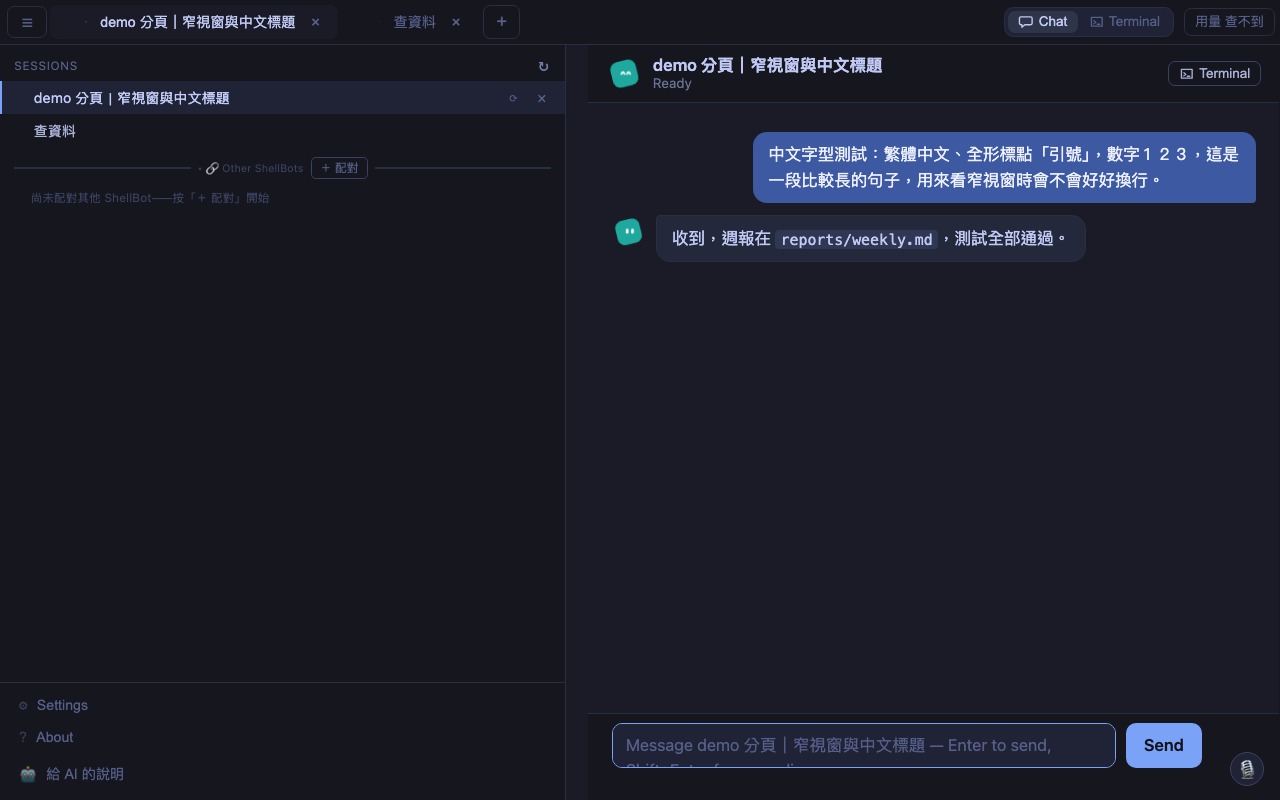
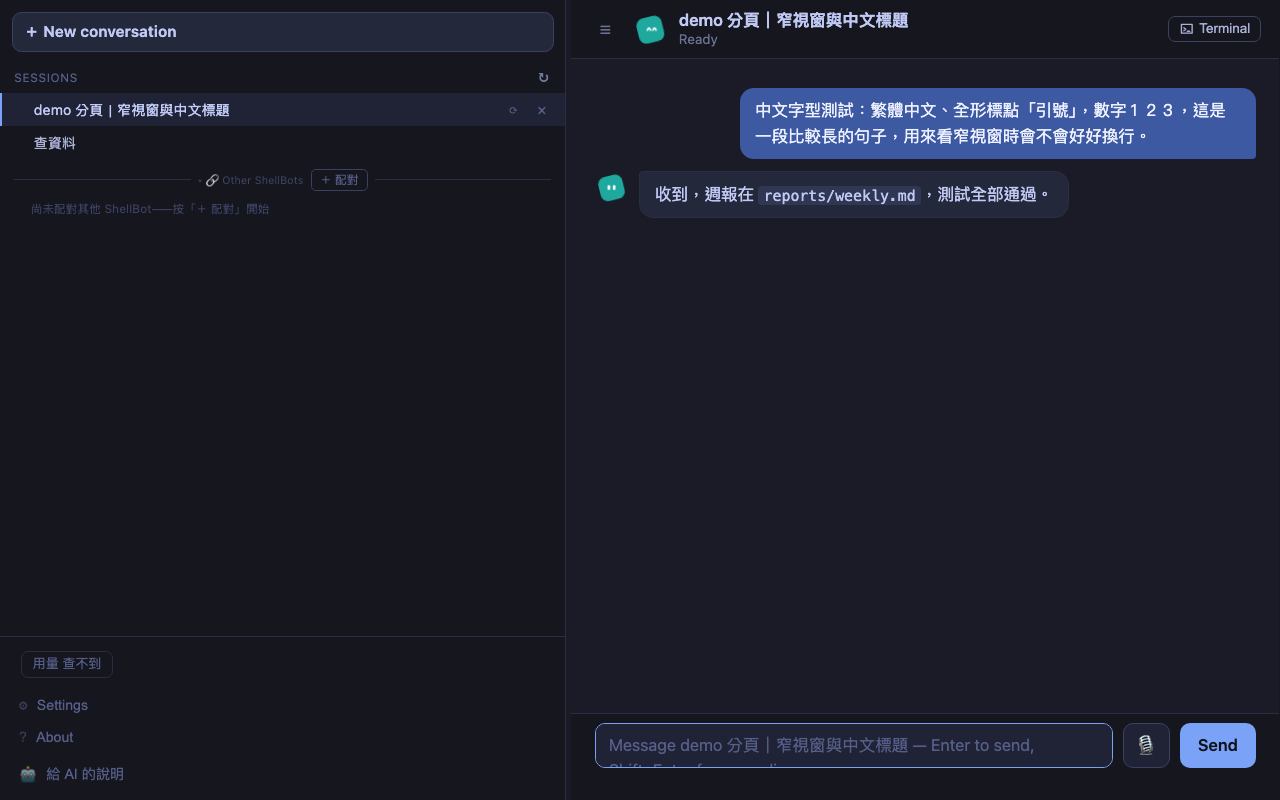
A copy button's word is not part of the message's text; the narrow test measures the row's mic
The full suite caught two things after round 2's commits:
  - the 「複製」 button sits inside each bubble, so its word became part of the bubble's
    text: tests_chat_a2a_ui.py read "複製\n\n比較表整理好了…". Anything reading a bubble's
    text would too. The word now comes from CSS (::after, attr(data-label)), the feedback
    swaps data-label; tests_chat_copy.py checks the bubble's text has no 「複製」
  - tests_chat_narrow.py waited for the floating mic in the chat view, which now hides there:
    it measures the input row's mic beside Send instead (800px with the sidebar at its
    widest: title 77px, input 198px; 16px narrower: 61px, 182px)

diff --git a/web/chat.js b/web/chat.js
@@ -435,7 +435,7 @@
     const more = zh ? `顯示全部 ${lines.length} 行` : `Show all ${lines.length} lines`;
     return `<div class="cm-code${long ? ' is-long' : ''}">` +
       (lang ? `<span class="cm-code-lang">${escHtml(lang)}</span>` : '') +
-      `<button class="cm-copy" data-act="copy-code">${zh ? '複製' : 'Copy'}</button>` +
+      `<button class="cm-copy" data-act="copy-code" data-label="${zh ? '複製' : 'Copy'}" aria-label="${zh ? '複製程式碼' : 'Copy the code'}"></button>` +
       `<pre><code>${escHtml(body)}</code></pre>` +
       (long ? `<button class="cm-more" data-act="code-more">${more}</button>` : '') + '</div>';
   }
@@ -1059,8 +1059,8 @@
     let copy = '';
     if (cls === 'cm-bubble') {             // the whole message, even while it shows only its start
       (v.copy || (v.copy = {}))[key] = text;
-      copy = `<button class="cm-copy" data-act="copy" data-key="${escHtml(key)}" title="${escHtml(T(
-        'Copy this message', '複製這則訊息'))}">${escHtml(T('Copy', '複製'))}</button>`;
+      copy = `<button class="cm-copy" data-act="copy" data-key="${escHtml(key)}" data-label="${escHtml(T('Copy', '複製'))}" ` +
+        `aria-label="${escHtml(T('Copy this message', '複製這則訊息'))}" title="${escHtml(T('Copy this message', '複製這則訊息'))}"></button>`;
     }
     return `<div class="${cls}">${copy}${markdown ? md(shown, isZh(lang())) : escHtml(shown)}` +
       (text.length > LONG_TEXT ? `<button class="cm-more-text" data-act="open" data-key="${escHtml(key)}">${escHtml(
@@ -1392,10 +1392,10 @@
     let ok = false;
     try { ok = (await api().copy_text(text, 'chat-view')) === 'ok'; } catch (_) { ok = false; }
     if (!ok) { try { await navigator.clipboard.writeText(text); ok = true; } catch (_) {} }
-    if (!btn.dataset.label) btn.dataset.label = btn.textContent;
-    btn.textContent = ok ? T('Copied ✓', '已複製 ✓') : T('Could not copy', '複製失敗');
+    if (!btn.dataset.base) btn.dataset.base = btn.dataset.label;     // its word is CSS (::after), out of the bubble's text
+    btn.dataset.label = ok ? T('Copied ✓', '已複製 ✓') : T('Could not copy', '複製失敗');
     btn.classList.add('done');
-    setTimeout(() => { btn.textContent = btn.dataset.label; btn.classList.remove('done'); }, 1500);
+    setTimeout(() => { btn.dataset.label = btn.dataset.base; btn.classList.remove('done'); }, 1500);
   }
 
   // ── the microphone, in the input row ─────────────────────────────────────

diff --git a/web/chat.css b/web/chat.css
@@ -116,6 +116,7 @@ body.sf-chat-style #sb-new-convo:hover { border-color: #7aa2f7; color: #fff; }
 }
 .cm-bubble:hover > .cm-copy, .cm-code:hover > .cm-copy, .cm-copy:focus-visible, .cm-copy.done { opacity: 1; }
 .cm-copy:hover { color: var(--cm-text); border-color: var(--cm-blue); }
+.cm-copy::after { content: attr(data-label); }        /* the word is not the bubble's text (innerText, a copy) */
 .cm-copy.done { color: var(--cm-green); }
 .cm-bubble > .cm-copy + * { margin-top: 0; }
 .cm-code:hover > .cm-code-lang { visibility: hidden; }

diff --git a/tests_chat_narrow.py b/tests_chat_narrow.py
@@ -82,7 +82,7 @@ MEASURE = """() => {
   const label = document.querySelector('.cm-to-term span');
   return {layer: box('#chat-layer'), title: box('.cm-who b'), titleText: document.querySelector('.cm-who b').textContent,
           btn: box('.cm-to-term'), btnName: document.querySelector('.cm-to-term').title, labelShown: !!(label && label.offsetWidth),
-          input: box('#chat-input'), send: box('#chat-send'), mic: box('#btn-mic'), out, wide};
+          input: box('#chat-input'), send: box('#chat-send'), mic: box('#chat-mic'), out, wide};
 }"""
 
 
@@ -109,7 +109,7 @@ with sync_playwright() as pw:
     page.add_init_script(STUB)
     page.goto((HERE / "web" / "index.html").as_uri())
     page.wait_for_function("(() => { const l = document.getElementById('chat-layer'), b = document.querySelector('.cm-who b');"
-                           " return l && !l.hidden && l.classList.contains('cm-has-mic') && b && b.textContent"
+                           " return l && !l.hidden && !document.getElementById('chat-mic').hidden && b && b.textContent"
                            " && document.querySelectorAll('#chat-list .cm-row').length >= 2; })()", timeout=15000)
 
     def measure(width, shot=None):

diff --git a/tests_chat_copy.py b/tests_chat_copy.py
@@ -119,9 +119,10 @@ def run(browser, engine):
     btn.click()
     page.wait_for_timeout(200)
     check("it copies the whole message, as written", page.evaluate("window.__copied.slice(-1)[0]") == REPLY)
-    check("…and says so", "已複製" in (btn.text_content() or ""))
+    check("…and says so", "已複製" in (btn.get_attribute("data-label") or ""))
     page.wait_for_timeout(1700)
-    check("…then goes back to 「複製」", (btn.text_content() or "").strip() == "複製")
+    check("…then goes back to 「複製」", btn.get_attribute("data-label") == "複製")
+    check("the button's word is not in the bubble's text", "複製" not in bubble.inner_text())
     code = page.locator(f"{BOT} .cm-code").first
     code.hover()
     page.wait_for_timeout(200)
